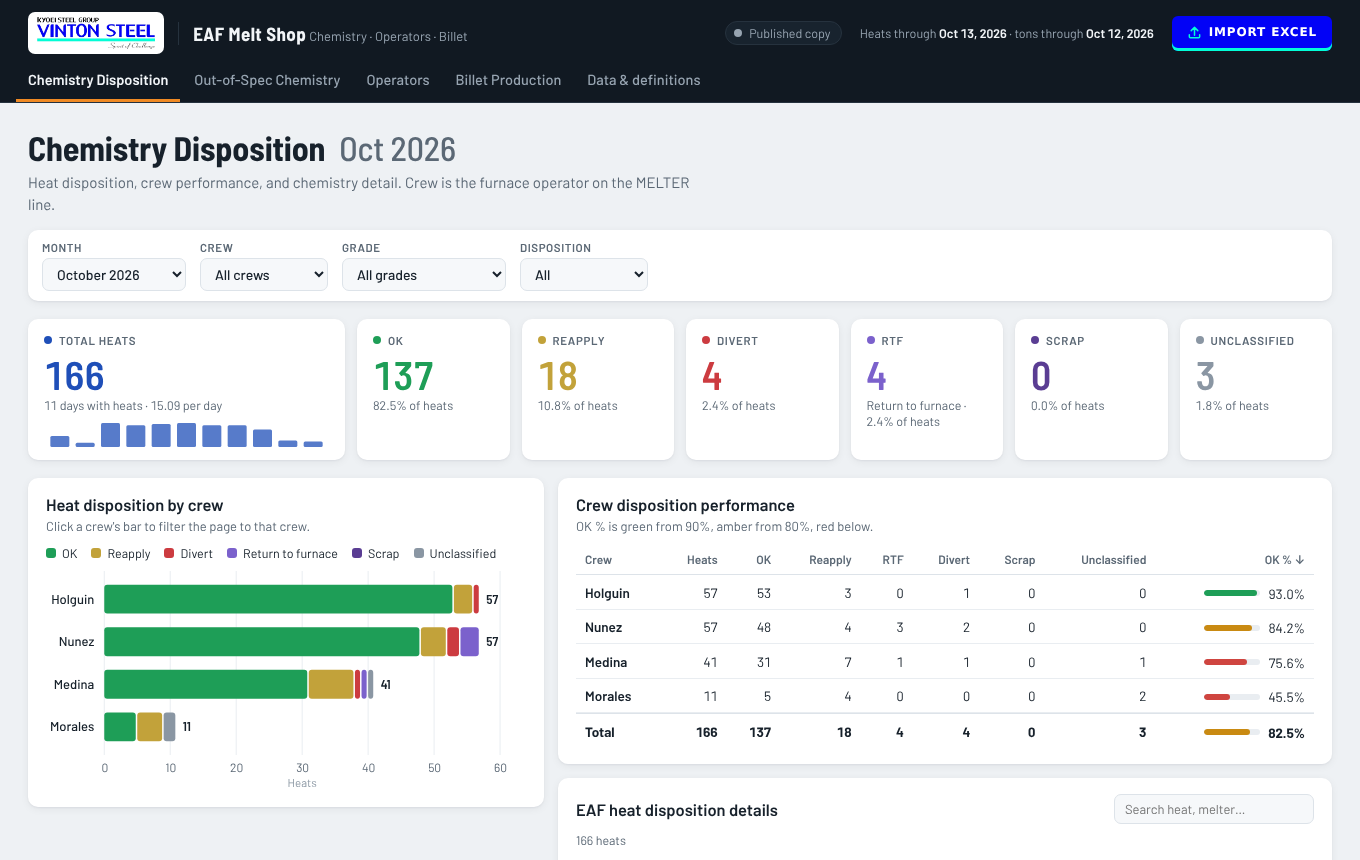
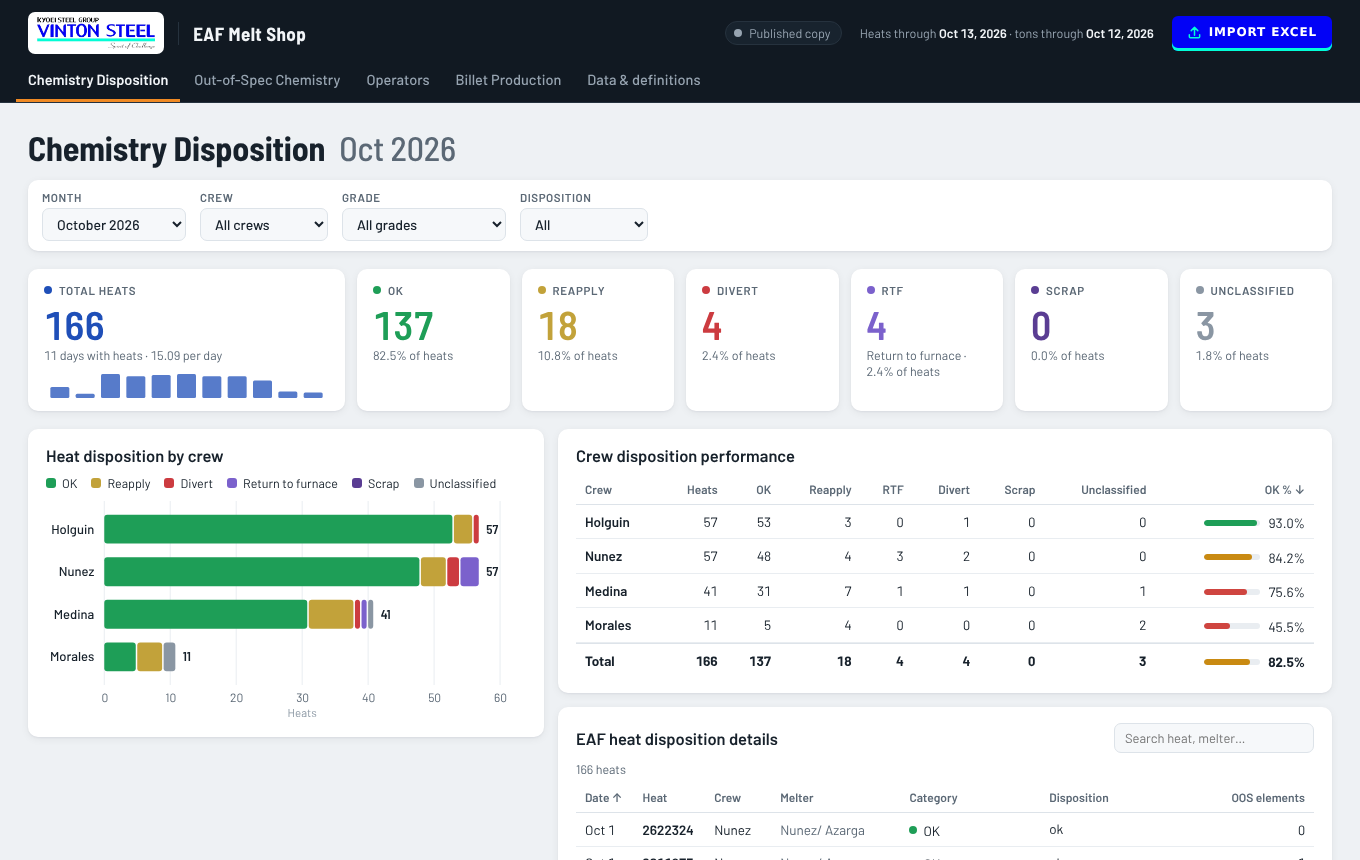
Remove descriptive subtitles under page and card titles
Keeps the small lines under numbers (KPI details, operator counts).
Operator hit-spec lines now read 'x of y heats hit spec'.

Claude-Session: https://claude.ai/code/session_01CDN4J3RVh4maKsFv7NYeHq

diff --git a/index.html b/index.html
@@ -149,7 +149,8 @@ body { background: var(--canvas); color: var(--ink); font-family: var(--font-ui)
 
 /* ---- cards ---- */
 .card { background: var(--panel); border-radius: var(--r); box-shadow: var(--shadow); padding: 16px 18px; min-width: 0; }
-.card h2 { font-size: 16.5px; font-weight: 600; margin: 0; }
+.card h2 { font-size: 16.5px; font-weight: 600; margin: 0 0 10px; }
+.card-head h2, .tbl-tools h2 { margin-bottom: 0; }
 .card .note { font-size: 13px; color: var(--muted); margin: 3px 0 10px; line-height: 1.4; }
 .card-head { display: flex; flex-wrap: wrap; align-items: flex-start; justify-content: space-between; gap: 8px 14px; margin-bottom: 8px; }
 .card-head .note { margin-bottom: 0; }
@@ -335,7 +336,7 @@ body { background: var(--canvas); color: var(--ink); font-family: var(--font-ui)
     <div class="vk-bar">
       <div class="vk-brand">
[1 lines of base64/hex data omitted]
-        <div class="vk-title"><b>EAF Melt Shop</b> <span>Chemistry · Operators · Billet</span></div>
+        <div class="vk-title"><b>EAF Melt Shop</b></div>
       </div>
       <span class="vk-live off" id="db-chip"><i></i><span>Connecting…</span></span>
       <span class="vk-pill" id="preview-pill" hidden>Imported</span>
@@ -407,7 +408,6 @@ body { background: var(--canvas); color: var(--ink); font-family: var(--font-ui)
     <section class="pg" id="chemistry" aria-labelledby="chem-title">
       <div class="pg-head">
         <h1 class="pg-title" id="chem-title">Chemistry Disposition <span class="month js-month-label"></span></h1>
-        <p class="pg-sub">Heat disposition, crew performance, and chemistry detail. Crew is the furnace operator on the MELTER line.</p>
       </div>
       <div class="filters">
         <label class="fld">Month<select class="js-month" id="chem-month"></select></label>
@@ -427,14 +427,12 @@ body { background: var(--canvas); color: var(--ink); font-family: var(--font-ui)
       <div class="grid-2">
         <div class="card" id="card-crew-bars">
           <h2>Heat disposition by crew</h2>
-          <p class="note">Click a crew's bar to filter the page to that crew.</p>
           <div class="legend" id="chem-legend"></div>
           <div class="chart" id="crew-bars"></div>
         </div>
         <div class="stack">
           <div class="card" id="card-crew-table">
             <h2>Crew disposition performance</h2>
-            <p class="note">OK % is green from 90%, amber from 80%, red below.</p>
             <div class="tbl-wrap">
               <table class="tbl" id="crew-table">
                 <thead><tr>
@@ -478,7 +476,6 @@ body { background: var(--canvas); color: var(--ink); font-family: var(--font-ui)
     <section class="pg" id="oos" aria-labelledby="oos-title" hidden>
       <div class="pg-head">
         <h1 class="pg-title" id="oos-title">Out-of-Spec Chemistry <span class="month js-month-label"></span></h1>
-        <p class="pg-sub">Element-level chemistry deviations, affected heats, and disposition impact.</p>
       </div>
       <div class="filters">
         <label class="fld">Month<select class="js-month" id="oos-month"></select></label>
@@ -538,7 +535,6 @@ body { background: var(--canvas); color: var(--ink); font-family: var(--font-ui)
     <section class="pg" id="operators" aria-labelledby="ops-title" hidden>
       <div class="pg-head">
         <h1 class="pg-title" id="ops-title">Operator Spec Performance <span class="month js-month-label"></span></h1>
-        <p class="pg-sub">Furnace and caster operators as recorded on each shift's MELTER line (furnace / caster), how often their heats hit the chemistry spec, and what happened to each heat at the caster.</p>
       </div>
       <div class="filters">
         <label class="fld">Month<select class="js-month" id="ops-month"></select></label>
@@ -557,38 +553,32 @@ body { background: var(--canvas); color: var(--ink); font-family: var(--font-ui)
       <div class="grid-half mb">
         <div class="card">
           <h2>Furnace operators</h2>
-          <p class="note">Share of their heats with every element inside spec. Click a name to see their heats below.</p>
           <ol class="rank" id="rank-furnace"></ol>
         </div>
         <div class="card">
           <h2>Caster operators</h2>
-          <p class="note">Same measure for the second name on the MELTER line.</p>
           <ol class="rank" id="rank-caster"></ol>
         </div>
       </div>
       <div class="card mb" id="flow-card">
         <h2>Furnace to caster</h2>
-        <p class="note">Each heat's chemistry when it left the furnace, next to its disposition at the caster. Click a number to see those heats below.</p>
         <p class="flow-lead" id="flow-lead"></p>
         <div class="tbl-wrap"><table class="flow-x" id="flow-cross"><thead></thead><tbody></tbody></table></div>
       </div>
       <div class="grid-half mb">
         <div class="card">
           <h2>Furnace operators: furnace to caster</h2>
-          <p class="note">Top bar: their heats' chemistry at the furnace. Bottom bar: the disposition at the caster. The number is the share that was OK at the caster. Click a name to see their heats below.</p>
           <div class="legend flow-legend" aria-hidden="true"></div>
           <ol class="rank flowrank" id="flow-furnace"></ol>
         </div>
         <div class="card">
           <h2>Caster operators: furnace to caster</h2>
-          <p class="note">The same view for the second name on the MELTER line.</p>
           <div class="legend flow-legend" aria-hidden="true"></div>
           <ol class="rank flowrank" id="flow-caster"></ol>
         </div>
       </div>
       <div class="card mb">
         <h2>Who worked together</h2>
-        <p class="note">Hit-spec rate for each furnace and caster pairing on shift. Faded cells have fewer than 5 heats. Click a cell to see those heats.</p>
         <div class="tbl-wrap"><table class="matrix" id="pair-matrix"><thead></thead><tbody></tbody></table></div>
       </div>
       <div class="card" id="ops-heats-card">
@@ -629,7 +619,6 @@ body { background: var(--canvas); color: var(--ink); font-family: var(--font-ui)
     <section class="pg" id="billet" aria-labelledby="billet-title" hidden>
       <div class="pg-head">
         <h1 class="pg-title" id="billet-title">Billet Production <span class="month js-month-label"></span></h1>
-        <p class="pg-sub">Daily billet tons, planned vs actual production, and EAF heat activity.</p>
       </div>
       <div class="filters">
         <label class="fld">Month<select class="js-month" id="billet-month"></select></label>
@@ -645,7 +634,7 @@ body { background: var(--canvas); color: var(--ink); font-family: var(--font-ui)
       </div>
       <div class="card mb">
         <div class="card-head">
-          <div><h2>Planned vs actual billet tons</h2><p class="note">Hover a day for its tons and the shift comment.</p></div>
+          <div><h2>Planned vs actual billet tons</h2></div>
           <div class="seg js-bview" role="group" aria-label="Chart view"><button type="button" data-val="daily">Daily</button><button type="button" data-val="cum">Running total</button></div>
         </div>
         <div class="legend" id="billet-legend"></div>
@@ -653,7 +642,6 @@ body { background: var(--canvas); color: var(--ink); font-family: var(--font-ui)
       </div>
       <div class="card">
         <h2>Monthly production summary</h2>
-        <p class="note">Planned tons count through the latest day that has actual tons.</p>
         <div class="tbl-wrap">
           <table class="tbl" id="billet-table">
             <thead><tr>
@@ -674,7 +662,6 @@ body { background: var(--canvas); color: var(--ink); font-family: var(--font-ui)
     <section class="pg" id="database" aria-labelledby="db-title" hidden>
       <div class="pg-head">
         <h1 class="pg-title" id="db-title">Database</h1>
-        <p class="pg-sub">Every record behind the site, stored in this site's shared database. Search, sort and download any table as CSV.</p>
       </div>
       <div class="kpis k4">
         <div class="card kpi"><div class="lbl">Status</div><div class="val" id="k-db-status">—</div><div class="sub" id="k-db-status-sub"></div></div>
@@ -696,7 +683,6 @@ body { background: var(--canvas); color: var(--ink); font-family: var(--font-ui)
       </div>
       <div class="card">
         <h2>How the database is organized</h2>
-        <p class="note">The same layout as the daily chemistry sheets: one record per production day.</p>
         <dl class="schema">
           <div><dt>days / YYYY-MM-DD</dt><dd>One record per production day: every heat on that day's chemistry sheet (crew, caster, grade, bar size, disposition) with its out-of-spec findings under both specs, plus that day's planned and actual billet tons and the shift comment.</dd></div>
           <div><dt>months / YYYY-MM</dt><dd>One record per month: which Excel files fed it and every SPEC row found on its daily sheets.</dd></div>
@@ -710,11 +696,9 @@ body { background: var(--canvas); color: var(--ink); font-family: var(--font-ui)
     <section class="pg" id="data" aria-labelledby="data-title" hidden>
       <div class="pg-head">
         <h1 class="pg-title" id="data-title">Data &amp; definitions</h1>
-        <p class="pg-sub">Which monthly Excel files feed the site, how each measure is worked out, and the spec limits behind every out-of-spec call.</p>
       </div>
       <div class="card mb">
         <h2>Source files from the Vinton KPIs folder</h2>
-        <p class="note">One file per month and report. An original file is used when there is one; a "Copy of" file only when it is the only version.</p>
         <div class="tbl-wrap">
           <table class="tbl" id="files-table">
             <thead><tr>
@@ -746,7 +730,6 @@ body { background: var(--canvas); color: var(--ink); font-family: var(--font-ui)
         </div>
         <div class="card">
           <div class="card-head"><h2 id="sheet-spec-title">Daily sheet spec limits</h2></div>
-          <p class="note">Every SPEC row found on the month's sheets, with how many heats it applied to.</p>
           <div class="tbl-wrap tall">
             <table class="tbl" id="sheet-spec-table">
               <thead><tr>
@@ -764,7 +747,6 @@ body { background: var(--canvas); color: var(--ink); font-family: var(--font-ui)
       </div>
       <div class="card">
         <h2>Power BI spec table</h2>
-        <p class="note">Used when Spec is set to Power BI table.</p>
         <div class="tbl-wrap">
           <table class="tbl" id="spec-table">
             <thead><tr>
@@ -1663,7 +1645,7 @@ body { background: var(--canvas); color: var(--ink); font-family: var(--font-ui)
       if (s.Heats < 10) b.classList.add('few');
       const who = document.createElement('span'); who.className = 'who'; who.textContent = s.Name;
       const meta = document.createElement('span'); meta.className = 'meta';
-      meta.textContent = `${fInt(s.Hit)} of ${fInt(s.Heats)} heats` + (s.Elements.length ? ` · most missed ${s.Elements.slice(0, 2).map(([e, n]) => `${e} ${n}`).join(', ')}` : '');
+      meta.textContent = `${fInt(s.Hit)} of ${fInt(s.Heats)} heats hit spec` + (s.Elements.length ? ` · most missed ${s.Elements.slice(0, 2).map(([e, n]) => `${e} ${n}`).join(', ')}` : '');
       const bar = document.createElement('span'); bar.className = 'bar';
       const st = status(s.Pct);
       const fill = document.createElement('i'); fill.style.width = (s.Pct || 0) * 100 + '%'; fill.style.background = `var(--${st === 'neutral' ? 'faint' : st})`;
@@ -1851,7 +1833,7 @@ body { background: var(--canvas); color: var(--ink); font-family: var(--font-ui)
       if (!rowN && (s.key === 'nospec' || s.key === 'nochem')) continue;
       const tr = document.createElement('tr');
       const th = document.createElement('th'); th.className = 'rowh'; th.scope = 'row'; th.textContent = s.label;
-      const sm = document.createElement('small'); sm.textContent = s.note; th.appendChild(sm); tr.appendChild(th);
+      tr.appendChild(th);
       tr.appendChild(cellBtn(s.key, null, rowN, fP0(rowN / total) + ' of heats', 'sum', s.label + ' at the furnace'));
       for (const c of CASTER_CATS) {
         const k = n(s.key, c);
